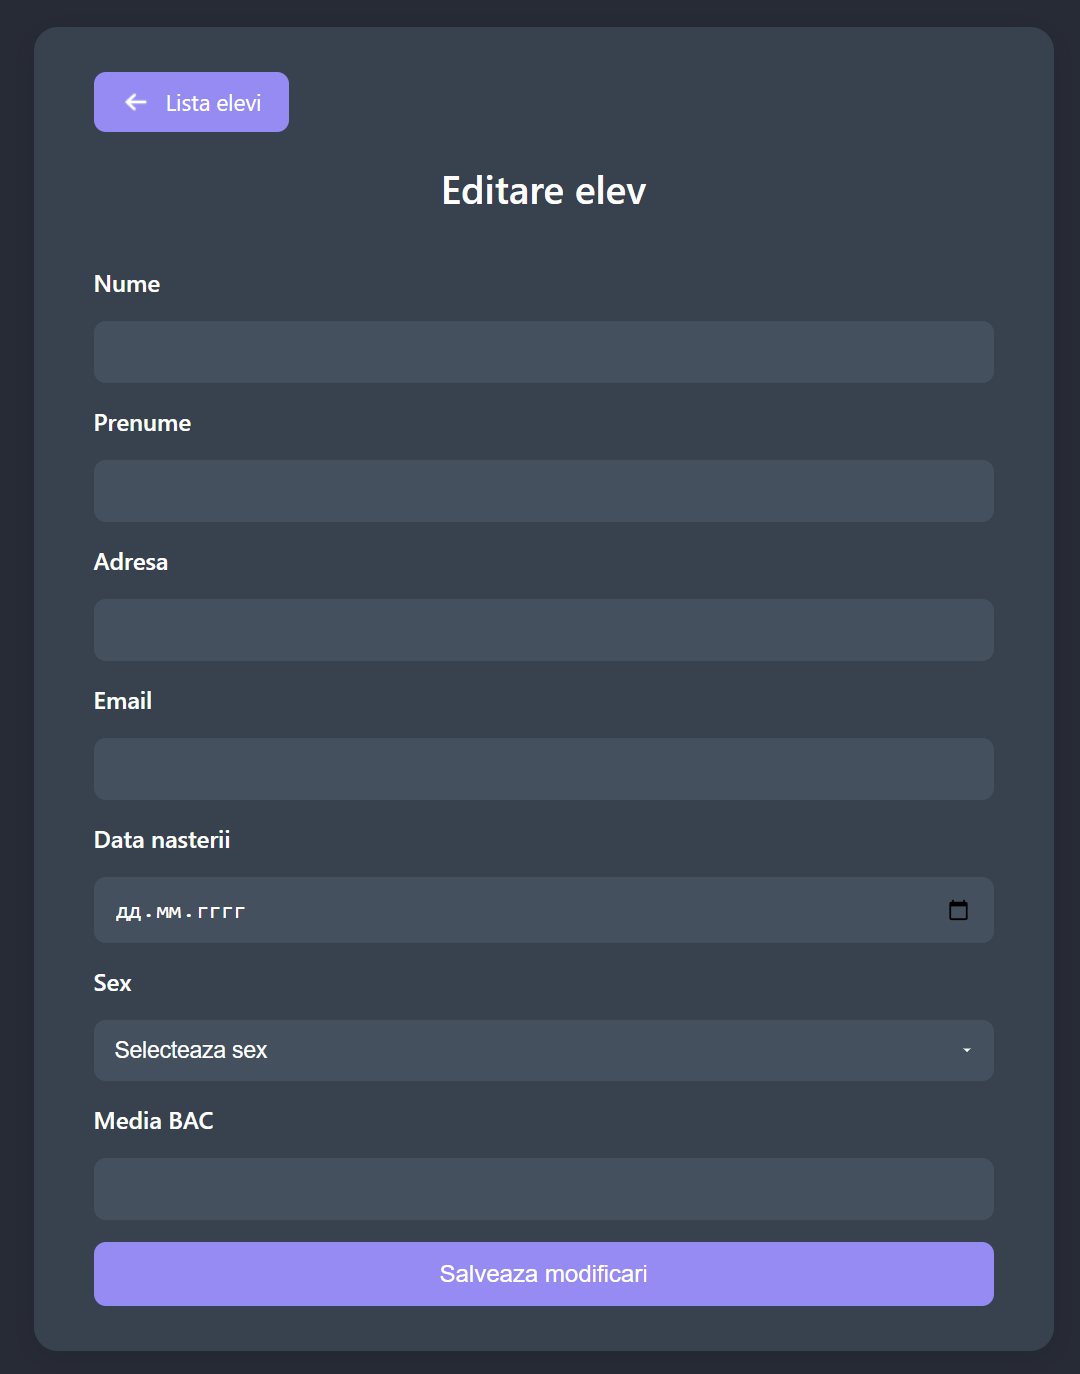
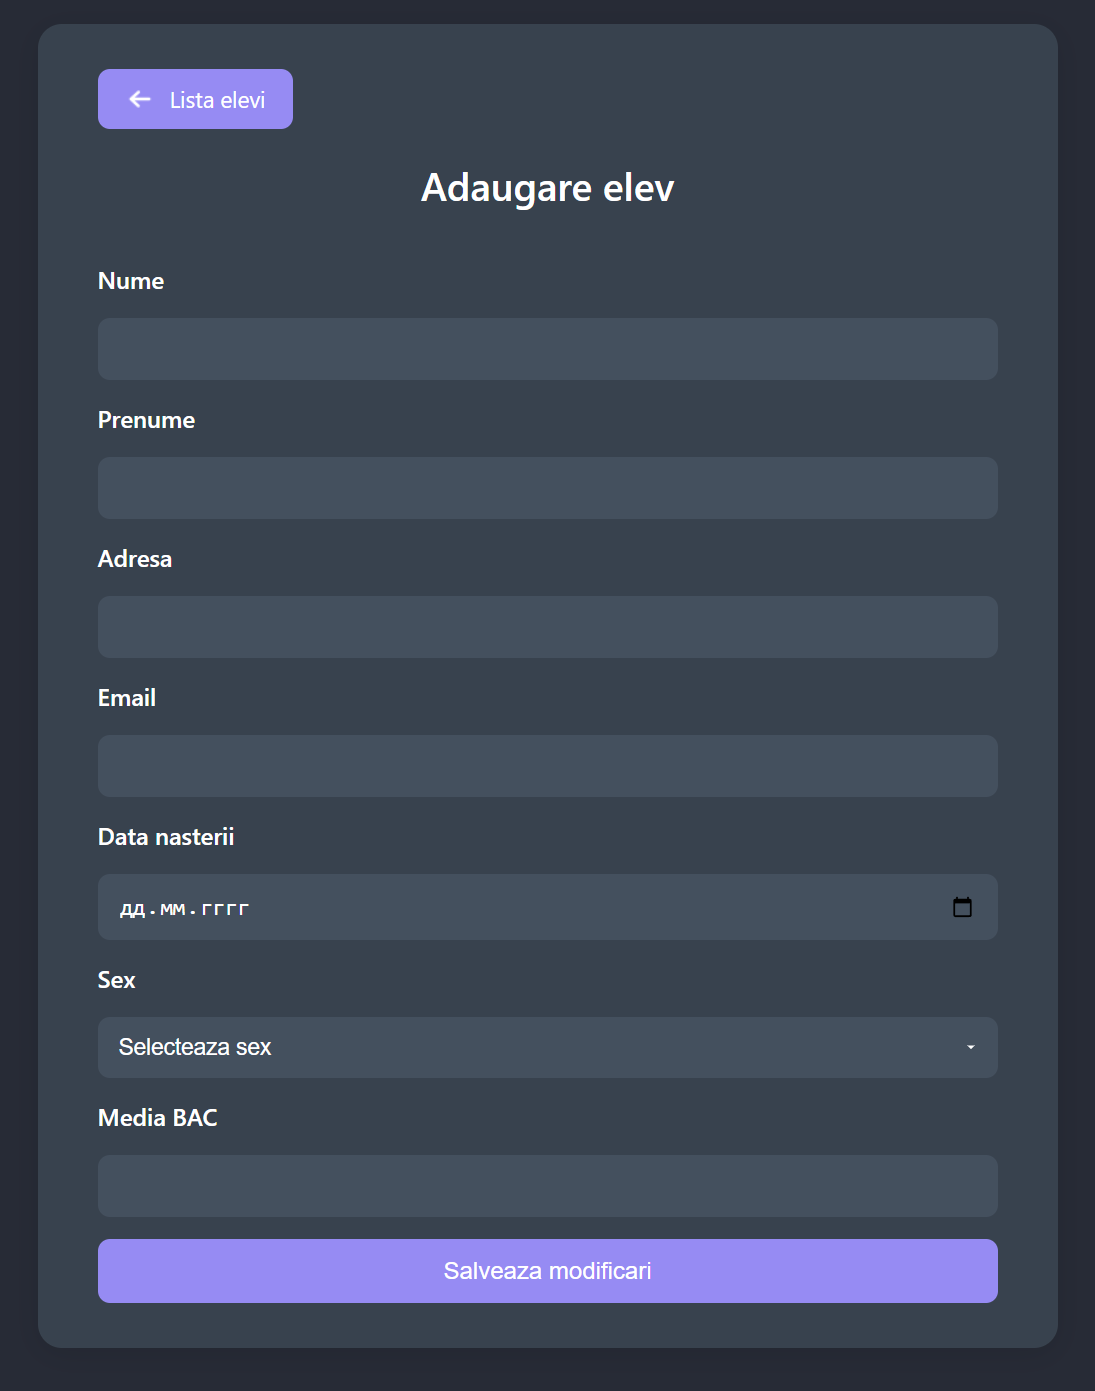
a little fix for add form(changed name from Editare to Adaugare)

diff --git a/add_elev.php b/add_elev.php
@@ -13,7 +13,7 @@
             <span>Lista elevi</span>
         </div>
         <form action="save_student.php" method="POST">
-            <span class="Edit">Editare elev</span>
+            <span class="Edit">Adaugare elev</span>
             <input type="hidden" id="studentId" name="id">
             <span>Nume</span> <input type="text" name = "numele" id="editName" required>
             <span>Prenume</span> <input type="text" name="prenumele" id="editLName" required>
